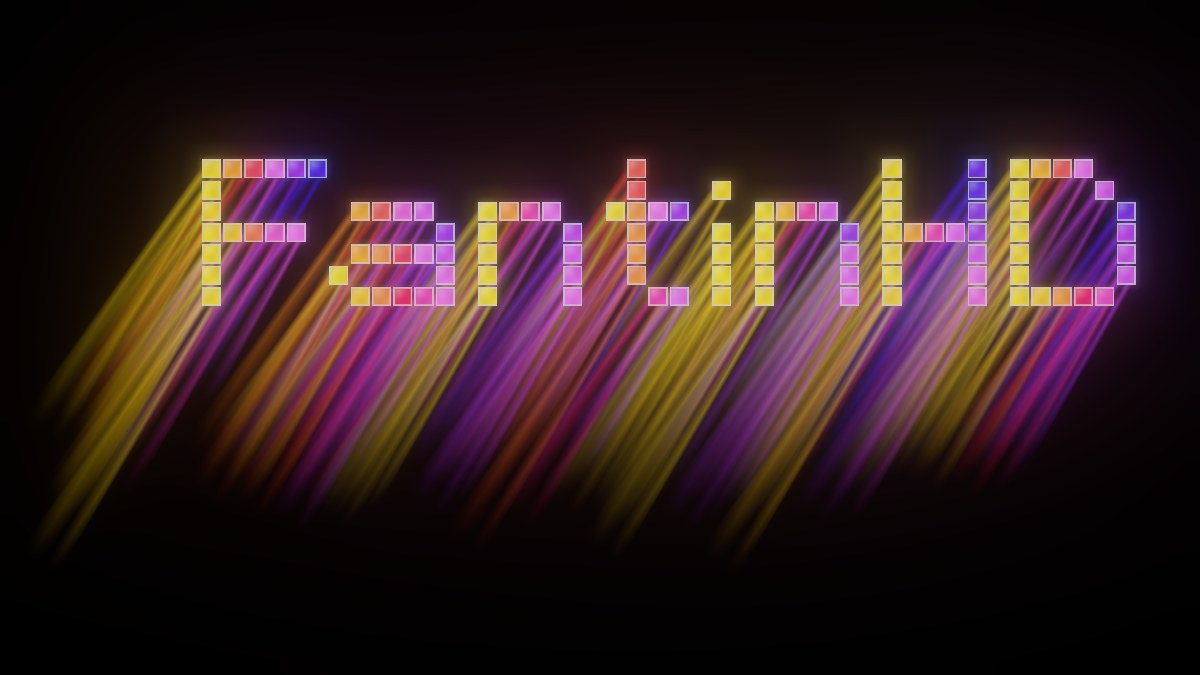
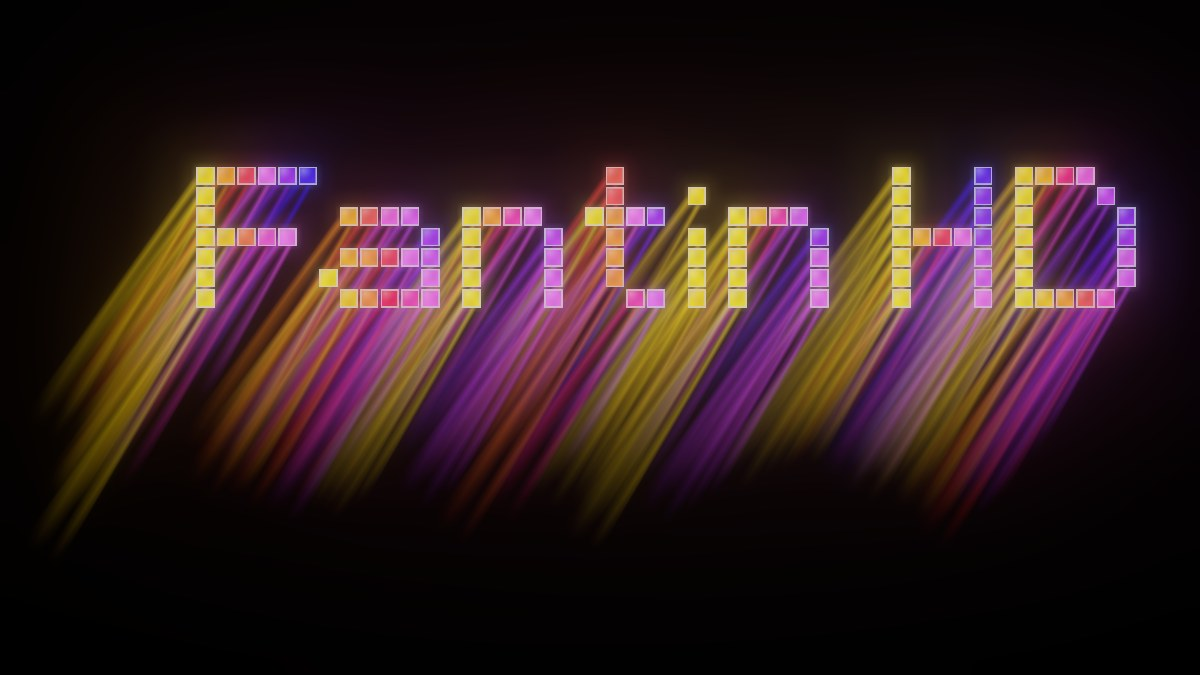
Nom du studio : « Fantin HD » ; 2:00:00 en blancs
- Nom affiché « Fantin HD » partout : logo 3D (espace de 3 colonnes),
  logos de l'en-tête et du pied de page, image de partage, textes,
  annonce du nouveau site, mentions, outil et ses modèles. Les noms
  techniques (dépôt, identifiants des jeux) ne changent pas.
- 2:00:00 : nouvelle palette « Le vide » (blanc pur, blanc cassé, blanc
  lait, crème, coquille d'œuf, lin) pour l'affiche, l'image d'annonce et
  les modèles de l'outil.
- Annonce 2:00:00 modifiée par Fantin conservée.

Claude-Session: https://claude.ai/code/session_01AeWBKp6jY6m2cPjRKCQ14V

Changed region(s): [[0.0925, 0.2178, 0.9558, 0.8089], [0.0617, 0.7156, 0.0925, 0.7778]]

diff --git a/outils/voxel-type/index.html b/outils/voxel-type/index.html
@@ -1,5 +1,5 @@
 <!doctype html><html lang="fr"><head><meta charset="utf-8"><meta name="viewport" content="width=device-width,initial-scale=1,viewport-fit=cover"></head><body>
-<title>Voxel Type FantinHD</title>
+<title>Voxel Type Fantin HD</title>
 <meta name="claude:viewport-fit-sides" content="cover">
 <link rel="stylesheet" href="https://fonts.googleapis.com/css2?family=IBM+Plex+Mono:wght@400;500&display=swap">
 <style>
@@ -77,7 +77,7 @@ input[type=checkbox]{accent-color:var(--fg);width:15px;height:15px;margin:0;just
 
 <canvas id="gl" aria-label="Texte en pixels de verre, en 3D. Glisser pour tourner, molette pour zoomer, clic sur un pixel pour changer sa couleur."></canvas>
 <div class="frame" aria-hidden="true"></div>
-<div class="ui brand">FantinHD · Voxel Type</div>
+<div class="ui brand">Fantin HD · Voxel Type</div>
 
 <div class="ui ctl">
   <div class="quick"><button id="flatBtn" type="button" title="Remet le texte de face">À plat</button><button id="pngBtn" type="button" class="primary" title="Exporte une image PNG avec les réglages d'export">PNG ↓</button></div>
@@ -87,7 +87,7 @@ input[type=checkbox]{accent-color:var(--fg);width:15px;height:15px;margin:0;just
 
 <div class="bottom">
   <label for="txt" class="sr" style="position:absolute;width:1px;height:1px;overflow:hidden;clip:rect(0 0 0 0)">Texte</label>
-  <input id="txt" type="text" maxlength="40" autocomplete="off" spellcheck="false" value="FantinHD" placeholder="Tape ton texte (| pour aller à la ligne)">
+  <input id="txt" type="text" maxlength="40" autocomplete="off" spellcheck="false" value="Fantin HD" placeholder="Tape ton texte (| pour aller à la ligne)">
 </div>
 
 <div class="ui stats-l" id="statV">Voxels · 0</div>
@@ -107,7 +107,7 @@ import { UnrealBloomPass } from 'three/addons/postprocessing/UnrealBloomPass.js'
 import { ShaderPass } from 'three/addons/postprocessing/ShaderPass.js';
 import { OutputPass } from 'three/addons/postprocessing/OutputPass.js';
 
-/* ---------- Police pixel 7 rangées (+2 pour les jambages). F, a, n, t, i, H, D = dessin exact du logo FantinHD ---------- */
+/* ---------- Police pixel 7 rangées (+2 pour les jambages). F, a, n, t, i, H, D = dessin exact du logo Fantin HD ---------- */
 const G = {
   A:[".###.","#...#","#...#","#####","#...#","#...#","#...#"],
   B:["####.","#...#","#...#","####.","#...#","#...#","####."],
@@ -191,11 +191,13 @@ const PRESETS = {
   vitrail:["#FFC83D","#FF7B1C","#FF2F45","#FF5EC9","#8B53FF","#2E46FF"],
   glace:["#E8FBFF","#9BE7FF","#38C6FF","#2A8BFF","#3D4DFF","#8A7CFF"],
   braise:["#FFE08A","#FFB13B","#FF7A1A","#FF3B1F","#D9103A","#8C0A3C"],
-  blanc:["#FFFFFF","#F3F1EA","#E2E0D8","#CFCBC0","#BDB8AC","#A7A296"]
+  blanc:["#FFFFFF","#F3F1EA","#E2E0D8","#CFCBC0","#BDB8AC","#A7A296"],
+  // Le vide (2:00:00) : blanc pur, blanc cassé, blanc lait, crème, coquille d'œuf, lin
+  vide:["#FFFFFF","#FAF9F6","#FDFBF4","#FFF6E5","#F2EEE3","#E9E3D6"]
 };
 
 const DEFAULTS = {
-  text:"FantinHD", preset:"fantinhd", palette:PRESETS.fantinhd.slice(), mode:"logo", tone:"color", seed:7, kern:true,
+  text:"Fantin HD", preset:"fantinhd", palette:PRESETS.fantinhd.slice(), mode:"logo", tone:"color", seed:7, kern:true,
   gap:0.1, depth:1.6, opacity:1, border:0.13, bright:2,
   rays:true, rayLen:12.3, rayInt:0.44, rayDir:237, rayTilt:0, rayWidth:0.76, raySpread:2.35, rayFall:1.87,
   bloom:0.16, bloomRadius:0.04, bloomThr:0, grain:0, exposure:1.43,
@@ -204,22 +206,22 @@ const DEFAULTS = {
 };
 /* Modèles : réglages de départ pour le logo, les images d'annonce (16:9) et les affiches de jeu (2:3).
    Chaque modèle part des réglages du logo officiel et ne change que ce qui est listé. */
-const PAL = { braise:PRESETS.braise, glace:PRESETS.glace, vitrail:PRESETS.vitrail, fantinhd:PRESETS.fantinhd };
+const PAL = { braise:PRESETS.braise, glace:PRESETS.glace, vitrail:PRESETS.vitrail, fantinhd:PRESETS.fantinhd, vide:PRESETS.vide };
 const ANNONCE = { sway:false, lockRot:true, view:"flat", autoZoom:"global", zoomMargin:0.6, fmt:"wide", res:"1600", bg:"black" };
 const AFFICHE = { sway:false, lockRot:true, view:"flat", autoZoom:"global", zoomMargin:0.3, rayLen:11, rayDir:250, fmt:"poster", res:"1200", bg:"black" };
 const SCENES = {
-  logo:{ nom:"Logo FantinHD", s:{} },
+  logo:{ nom:"Logo Fantin HD", s:{} },
   logoBlanc:{ nom:"Logo blanc sans rayons (en-tête)", s:{ rays:false, tone:"white", autoZoom:"letters", zoomMargin:0.05, fmt:"banner", res:"2400", bg:"transparent", sway:false } },
-  annonceStudio:{ nom:"Annonce — FantinHD", s:Object.assign({}, ANNONCE, { text:"FantinHD", zoomMargin:0.3 }) },
+  annonceStudio:{ nom:"Annonce — Fantin HD", s:Object.assign({}, ANNONCE, { text:"Fantin HD", zoomMargin:0.3 }) },
   annonceFarkle:{ nom:"Annonce — Farkle", s:Object.assign({}, ANNONCE, { text:"Farkle", preset:"braise", palette:PAL.braise.slice(), zoomMargin:0.75 }) },
   annonceClean:{ nom:"Annonce — Clean Glass", s:Object.assign({}, ANNONCE, { text:"Clean Glass", preset:"glace", palette:PAL.glace.slice() }) },
   annonce3200000:{ nom:"Annonce — 3 200 000", s:Object.assign({}, ANNONCE, { text:"3 200 000", preset:"vitrail", palette:PAL.vitrail.slice(), mode:"gradient" }) },
-  annonce2h:{ nom:"Annonce — 2:00:00", s:Object.assign({}, ANNONCE, { text:"2:00:00", zoomMargin:0.75 }) },
+  annonce2h:{ nom:"Annonce — 2:00:00", s:Object.assign({}, ANNONCE, { text:"2:00:00", preset:"vide", palette:PAL.vide.slice(), zoomMargin:0.75 }) },
   annonceVierge:{ nom:"Annonce — texte libre", s:Object.assign({}, ANNONCE, { text:"Nouveau", zoomMargin:0.6 }) },
   afficheFarkle:{ nom:"Affiche — Farkle", s:Object.assign({}, AFFICHE, { text:"Farkle", preset:"braise", palette:PAL.braise.slice() }) },
   afficheClean:{ nom:"Affiche — Clean Glass", s:Object.assign({}, AFFICHE, { text:"Clean|Glass", preset:"glace", palette:PAL.glace.slice() }) },
   affiche3200000:{ nom:"Affiche — 3 200 000 (3.2M)", s:Object.assign({}, AFFICHE, { text:"3.2M", preset:"vitrail", palette:PAL.vitrail.slice(), mode:"gradient" }) },
-  affiche2h:{ nom:"Affiche — 2:00:00", s:Object.assign({}, AFFICHE, { text:"2:00:00" }) }
+  affiche2h:{ nom:"Affiche — 2:00:00", s:Object.assign({}, AFFICHE, { text:"2:00:00", preset:"vide", palette:PAL.vide.slice() }) }
 };
 const KEY = "fantinhd-voxel-type-v1";
 let S = structuredClone(DEFAULTS);
@@ -805,9 +807,9 @@ const UI = [
     { t:"note", x:"Choisis un modèle, change le texte en bas (| pour aller à la ligne), puis Export → Image PNG. Annonces : format 16:9, 1600 px. Affiches de jeu : format 2:3, 1200 px." }
   ]],
   ["Couleurs", [
-    { k:"preset", t:"select", l:"Palette", o:[["fantinhd","FantinHD"],["vitrail","Vitrail"],["glace","Glace"],["braise","Braise"],["blanc","Blanc"],["perso","Perso"]] },
+    { k:"preset", t:"select", l:"Palette", o:[["fantinhd","Fantin HD"],["vitrail","Vitrail"],["glace","Glace"],["braise","Braise"],["vide","Le vide (2:00:00)"],["blanc","Blanc"],["perso","Perso"]] },
     { t:"palette" },
-    { k:"mode", t:"select", l:"Répartition", o:[["logo","Logo FantinHD"],["random","Aléatoire"],["gradient","Dégradé"]] },
+    { k:"mode", t:"select", l:"Répartition", o:[["logo","Logo Fantin HD"],["random","Aléatoire"],["gradient","Dégradé"]] },
     { k:"tone", t:"select", l:"Teinte", o:[["color","Couleur"],["gray","Noir et blanc"],["white","Blanc pur"]] },
     { t:"btns", b:[["Nouvelle graine", () => { S.seed = Math.floor(Math.random() * 1e6); updateColors(); persist(); }], ["Effacer retouches", () => { S.overrides = {}; updateColors(); persist(); toast("Retouches effacées"); }]] },
     { t:"note", x:"Clic sur un pixel : il prend la couleur suivante de la palette. Double-clic dans le vide : recadrer." }

diff --git a/index.html b/index.html
@@ -3,11 +3,11 @@
 <head>
 <meta charset="utf-8">
 <meta name="viewport" content="width=device-width,initial-scale=1,viewport-fit=cover">
-<title>FantinHD — Jeux indépendants</title>
-<meta name="description" content="FantinHD, développeur indépendant de jeux Android et PC. Farkle et Clean Glass sur Google Play, 3 200 000 en développement, 2:00:00 bientôt sur Steam.">
+<title>Fantin HD — Jeux indépendants</title>
+<meta name="description" content="Fantin HD, développeur indépendant de jeux Android et PC. Farkle et Clean Glass sur Google Play, 3 200 000 en développement, 2:00:00 bientôt sur Steam.">
 <meta name="theme-color" content="#000000">
 <meta property="og:type" content="website">
-<meta property="og:title" content="FantinHD — Jeux indépendants">
+<meta property="og:title" content="Fantin HD — Jeux indépendants">
 <meta property="og:description" content="Des jeux nés d'une simple idée.">
 <meta property="og:image" content="https://the-first-dog.github.io/FantinHD/assets/logo/og.jpg">
 <meta name="twitter:card" content="summary_large_image">
@@ -24,7 +24,7 @@
 <header class="header" id="header">
   <div class="header__row">
     <button class="burger" id="menu-btn" type="button" aria-expanded="false" aria-controls="menu" aria-label="Ouvrir le menu"><span></span><span></span></button>
-    <a href="#accueil" class="header__logo" aria-label="FantinHD, accueil"><img src="assets/logo/logo-blanc-aura.png" alt="FantinHD" width="1400" height="395"></a>
+    <a href="#accueil" class="header__logo" aria-label="Fantin HD, accueil"><img src="assets/logo/logo-blanc-aura.png" alt="Fantin HD" width="1500" height="407"></a>
     <nav class="nav" aria-label="Navigation principale">
       <a href="#accueil" class="is-active">Accueil</a>
       <a href="#jeux">Jeux</a>
@@ -46,9 +46,9 @@
 
 <main id="main">
   <section class="hero" id="accueil" aria-labelledby="hero-title">
-    <h1 id="hero-title" class="sr-only">FantinHD</h1>
+    <h1 id="hero-title" class="sr-only">Fantin HD</h1>
     <div class="hero__stage" id="hero-stage">
-      <img class="hero__fallback" src="assets/logo/logo-complet.png" alt="Logo FantinHD : des lettres en pixels de verre colorés, avec des rayons de lumière" width="1600" height="900">
+      <img class="hero__fallback" src="assets/logo/logo-complet.png" alt="Logo Fantin HD : des lettres en pixels de verre colorés, avec des rayons de lumière" width="1600" height="900">
       <canvas class="hero__canvas" id="logo3d" aria-hidden="true"></canvas>
     </div>
     <p class="hero__tagline" id="hero-tagline">Des jeux nés d'une simple <strong>idée</strong></p>
@@ -78,7 +78,7 @@
     <div class="about__inner">
       <h2 class="about__title" id="about-title">Un développeur,<br><strong>plusieurs mondes</strong></h2>
       <div id="about-text">
-      <p>FantinHD, c'est mon nom de développeur. Je crée des jeux indépendants sur Android et je prépare mon premier jeu sur Steam, sans m'enfermer dans un genre : un jeu de dés médiéval, un jeu de nettoyage relaxant, 3 200 000 blocs à détruire, une expérience autour de l'attente et du hasard.</p>
+      <p>Fantin HD, c'est mon nom de développeur. Je crée des jeux indépendants sur Android et je prépare mon premier jeu sur Steam, sans m'enfermer dans un genre : un jeu de dés médiéval, un jeu de nettoyage relaxant, 3 200 000 blocs à détruire, une expérience autour de l'attente et du hasard.</p>
       <p>Farkle et Clean Glass sont déjà disponibles sur Google Play. 3 200 000 est en développement sur Android, et 2:00:00 sortira sur Steam.</p>
       </div>
       <a class="btn-outline" id="about-btn" href="https://play.google.com/store/apps/dev?id=8088754359282570640" target="_blank" rel="noopener noreferrer">Mes jeux sur Google Play</a>
@@ -88,8 +88,8 @@
 
 <footer class="footer">
   <div class="footer__top">
-    <p class="footer__legal" id="footer-legal">© <span id="year">2026</span> FantinHD. Farkle, Clean Glass, 3 200 000, 2:00:00 et le logo FantinHD sont des créations de FantinHD. Tous droits réservés.</p>
-    <img class="footer__logo" src="assets/logo/logo-blanc-aura.png" alt="FantinHD" width="1400" height="395" loading="lazy">
+    <p class="footer__legal" id="footer-legal">© <span id="year">2026</span> Fantin HD. Farkle, Clean Glass, 3 200 000, 2:00:00 et le logo Fantin HD sont des créations de Fantin HD. Tous droits réservés.</p>
+    <img class="footer__logo" src="assets/logo/logo-blanc-aura.png" alt="Fantin HD" width="1500" height="407" loading="lazy">
   </div>
   <nav class="footer__links" aria-label="Liens" id="footer-links">
     <a href="#accueil" id="footer-top">Haut de page</a>
@@ -115,7 +115,7 @@ import { OutputPass } from "three/addons/postprocessing/OutputPass.js";
 import { ShaderPass } from "three/addons/postprocessing/ShaderPass.js";
 
 const S = {
-  text:"FantinHD", palette:["#FDCB0B","#FF7A10","#F6033A","#FA4FF5","#7E1AFC","#2A0BF5"], seed:7, kern:true,
+  text:"Fantin HD", palette:["#FDCB0B","#FF7A10","#F6033A","#FA4FF5","#7E1AFC","#2A0BF5"], seed:7, kern:true,
   gap:0.1, depth:1.6, opacity:1, border:0.13, bright:2,
   rayLen:12.3, rayInt:0.44, rayDir:237, rayTilt:0, rayWidth:0.76, raySpread:2.35, rayFall:1.87,
   bloom:0.16, bloomRadius:0.04, bloomThr:0, exposure:1.43, margin:0.5
@@ -149,6 +149,7 @@ const canKern = (p, n) => { const a = edgeRows(p, p[0].length - 1), b = edgeRows
 
 const cells = []; let width = 0, prev = null;
 [...S.text].forEach((ch, i) => {
+  if (ch === " "){ width += 3; prev = null; return; }
   const gl = G[ch];
   if (prev) width += (S.kern && canKern(prev, gl)) ? 0 : 1;
   gl.forEach((row, r) => { for (let c = 0; c < row.length; c++) if (row[c] === "#") cells.push({ i, r, c, x:width + c, gw:row.length }); });

diff --git a/contenu/contenu.js b/contenu/contenu.js
@@ -9,7 +9,7 @@ window.FANTINHD_CONTENU = {
   "a_propos": {
    "titre": "Un développeur,\n**plusieurs mondes**",
    "paragraphes": [
-    "FantinHD, c'est mon nom de développeur. Je crée des jeux indépendants sur Android et je prépare mon premier jeu sur Steam, sans m'enfermer dans un genre : un jeu de dés médiéval, un jeu de nettoyage relaxant, 3 200 000 blocs à détruire, une expérience autour de l'attente et du hasard.",
+    "Fantin HD, c'est mon nom de développeur. Je crée des jeux indépendants sur Android et je prépare mon premier jeu sur Steam, sans m'enfermer dans un genre : un jeu de dés médiéval, un jeu de nettoyage relaxant, 3 200 000 blocs à détruire, une expérience autour de l'attente et du hasard.",
     "Farkle et Clean Glass sont déjà disponibles sur Google Play. 3 200 000 est en développement sur Android, et 2:00:00 sortira sur Steam."
    ],
    "bouton": {
@@ -17,7 +17,7 @@ window.FANTINHD_CONTENU = {
     "url": "https://play.google.com/store/apps/dev?id=8088754359282570640"
    }
   },
-  "mentions": "© {annee} FantinHD. Farkle, Clean Glass, 3 200 000, 2:00:00 et le logo FantinHD sont des créations de FantinHD. Tous droits réservés."
+  "mentions": "© {annee} Fantin HD. Farkle, Clean Glass, 3 200 000, 2:00:00 et le logo Fantin HD sont des créations de Fantin HD. Tous droits réservés."
  },
  "liens": [
   {
@@ -113,7 +113,7 @@ window.FANTINHD_CONTENU = {
    "id": "2026-10-27_1800_nouveau-site",
    "tri": "2026-10-27T18:00",
    "date_affichee": "27 octobre 2026",
-   "titre": "Nouveau site FantinHD",
+   "titre": "Nouveau site Fantin HD",
    "texte": "Le site officiel fait peau neuve, avec le logo en pixels de verre et tous les jeux au même endroit.",
    "image": "contenu/annonces/2026-10-27_1800_nouveau-site/image.jpg",
    "lien": null

diff --git a/app.js b/app.js
@@ -1,6 +1,6 @@
 "use strict";
 /*
- * FantinHD — affiche le contenu du dossier contenu/ et gère les petites interactions.
+ * Fantin HD — affiche le contenu du dossier contenu/ et gère les petites interactions.
  * Le contenu (textes, liens, jeux, annonces) vient de contenu/contenu.js, construit
  * automatiquement à partir des fichiers de contenu/ : voir contenu/LISEZMOI.md.
  */

diff --git a/styles.css b/styles.css
@@ -1,4 +1,4 @@
-/* FantinHD — sobre, centré, beaucoup d'air.
+/* Fantin HD — sobre, centré, beaucoup d'air.
    Titres fins avec un mot en gras, grandes affiches verticales, bandeau d'actualités horizontal. */
 :root{
   --ink:#000000;

diff --git a/outils/voxel-type/README.md b/outils/voxel-type/README.md
@@ -1,13 +1,13 @@
 # Voxel Type
 
-Outil pour fabriquer le logo FantinHD, les images d'annonce et les affiches de jeu, en pixels de verre avec des rayons de lumière. **Il n'est pas publié sur le site** : il reste dans le dépôt.
+Outil pour fabriquer le logo Fantin HD, les images d'annonce et les affiches de jeu, en pixels de verre avec des rayons de lumière. **Il n'est pas publié sur le site** : il reste dans le dépôt.
 
 ## Utilisation
 
 1. Télécharge `index.html` (bouton **Download raw file** sur GitHub) et ouvre-le dans Chrome ou Edge. Il faut une connexion internet pour la 3D.
 2. **Réglages → Modèle → Partir de** : choisis un modèle.
-   - **Logo FantinHD**, **Logo blanc sans rayons** (en-tête)
-   - **Annonce** (16:9, 1600 px) : FantinHD, Farkle, Clean Glass, 3 200 000, 2:00:00, texte libre
+   - **Logo Fantin HD**, **Logo blanc sans rayons** (en-tête)
+   - **Annonce** (16:9, 1600 px) : Fantin HD, Farkle, Clean Glass, 3 200 000, 2:00:00, texte libre
    - **Affiche de jeu** (2:3, 1200 px) : Farkle, Clean Glass, 3 200 000 (3.2M), 2:00:00
 3. Change le texte en bas. Tape `|` pour aller à la ligne (ex. `Clean|Glass`) : chaque ligne est centrée.
 4. Exporte avec **PNG ↓** (en haut à droite) ou **Réglages → Export → Image PNG**.

diff --git a/README.md b/README.md
@@ -1,9 +1,9 @@
-# FantinHD — Site officiel
+# Fantin HD — Site officiel
 
-Site vitrine de **FantinHD**, développeur indépendant de jeux Android et PC.
+Site vitrine de **Fantin HD**, développeur indépendant de jeux Android et PC.
 
 - **Site :** https://the-first-dog.github.io/FantinHD/ (GitHub Pages, branche `main`, dossier `/`)
-- **Style :** sobre et centré, inspiré de la mise en page du site d'Embark Studios. Le code, les textes et les visuels sont propres à FantinHD.
+- **Style :** sobre et centré, inspiré de la mise en page du site d'Embark Studios. Le code, les textes et les visuels sont propres à Fantin HD.
 
 ## Modifier le contenu (annonces, liens, jeux, textes)
 
@@ -41,4 +41,4 @@ Réglages de l'effet : constante `AURA` dans le script en bas de `index.html`.
 | `.github/workflows/contenu.yml` | Mise à jour automatique du contenu |
 | `_config.yml` | Dossiers exclus du site publié (`outils/`, modèles) |
 
-© FantinHD, tous droits réservés.
+© Fantin HD, tous droits réservés.

diff --git a/contenu/LISEZMOI.md b/contenu/LISEZMOI.md
@@ -1,4 +1,4 @@
-# Gérer le contenu du site FantinHD
+# Gérer le contenu du site Fantin HD
 
 Tout le contenu du site est dans ce dossier `contenu/`. Tu n'as **jamais besoin de toucher au code**.
 
